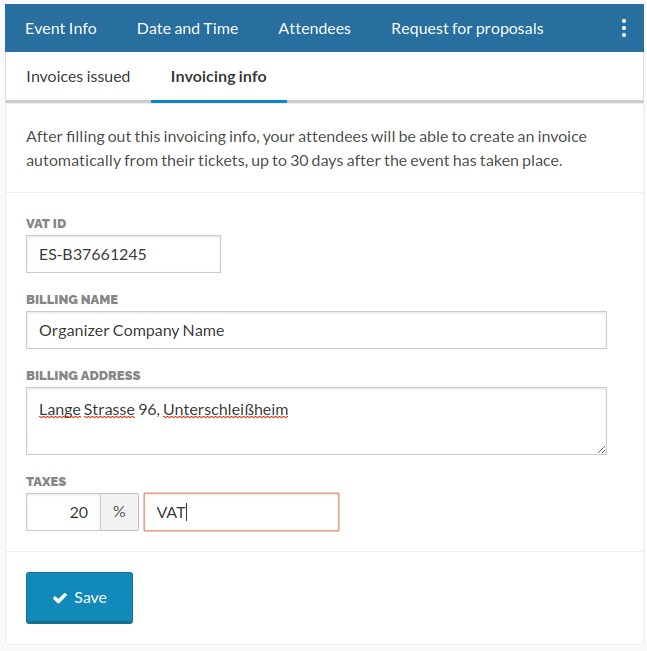
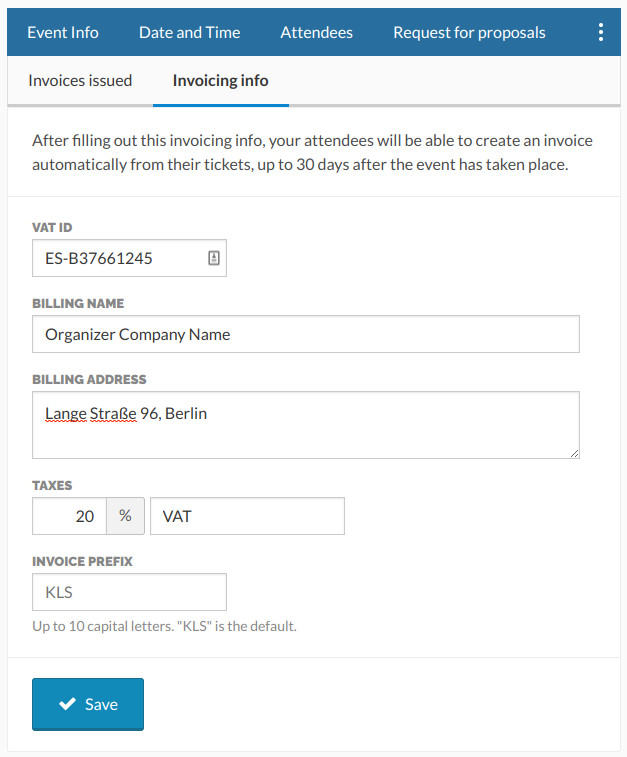
Fix #1.

diff --git a/content/tickets/invoices.md b/content/tickets/invoices.md
@@ -16,12 +16,12 @@ As an attendee, you can create an invoice directly from your ticket page. To do 
 
 1. Open the ticket page. You can do this by following the link in your ticket confirmation e-mail, or by opening to your user profile and selecting the **Tickets** tab.
 
-    ![The create invoice link](/img/screenshots/tickets/invoices-create.jpg)
+   ![The create invoice link](/img/screenshots/tickets/invoices-create.jpg)
 
 2. Click the **Create invoice** button.
 3. Fill all the fields in the form and click the **Save** button to create the invoice.
 
-    ![Entering the information for the invoice](/img/screenshots/tickets/invoices-client-info.jpg)
+   ![Entering the information for the invoice](/img/screenshots/tickets/invoices-client-info.jpg)
 
 You can only create an invoice automatically up to 30 days after the event has taken place. Past this date, you would need to contact the event organizer.
 
@@ -33,15 +33,17 @@ The event organizer must have enabled automatic invoices following the procedure
 
 To enable automatic invoices, fill out your invoice details:
 
-1. Under the **Events** tab in your dashboard, select your event and click **Edit**. 
+1. Under the **Events** tab in your dashboard, select your event and click **Edit**.
 2. Select the **Invoices** &raquo; **Invoicing info** tab.
 3. Fill out all the fields in the form and click **Save**.
 
-    ![Enabling automatic invoices](/img/screenshots/tickets/invoices-organizer-info.jpg)
+   ![Enabling automatic invoices](/img/screenshots/tickets/invoices-organizer-info.jpg)
 
 You can specify the concrete type and percentage of taxes according to your local legislation (VAT for the majority of Europe). This configuration may only be applicable for local events where all attendees share the same tax policy. Please consult your legal counsel before enabling automatic invoices, or contact info@koliseo.com if you have questions.
 
-Your invoices will be given a unique number according to the year when the ticket is sold. The invoice will be canceled if the ticket is refunded.
+Your invoices will be given a unique number according to the year of the ticket sale. We will void the invoice automatically if the organizer refunds the ticket.
+
+You can specify the prefix to use for the invoice number, which is `KLS` by default. If you change this value, any previously emitted invoices will not be modified.
 
 ## List of invoices
 
@@ -49,7 +51,6 @@ As the event organizer, you can get the list of all invoices emitted under the *
 
 ## What's next
 
-* [Start ticket sales]({{< ref "sales.md" >}})
-* [Set up the ticket types and prices for your event]({{< ref "ticket-types.md" >}})
-* [Create discount codes for your event]({{< ref "discounts.md" >}})
-
+- [Start ticket sales]({{< ref "sales.md" >}})
+- [Set up the ticket types and prices for your event]({{< ref "ticket-types.md" >}})
+- [Create discount codes for your event]({{< ref "discounts.md" >}})
